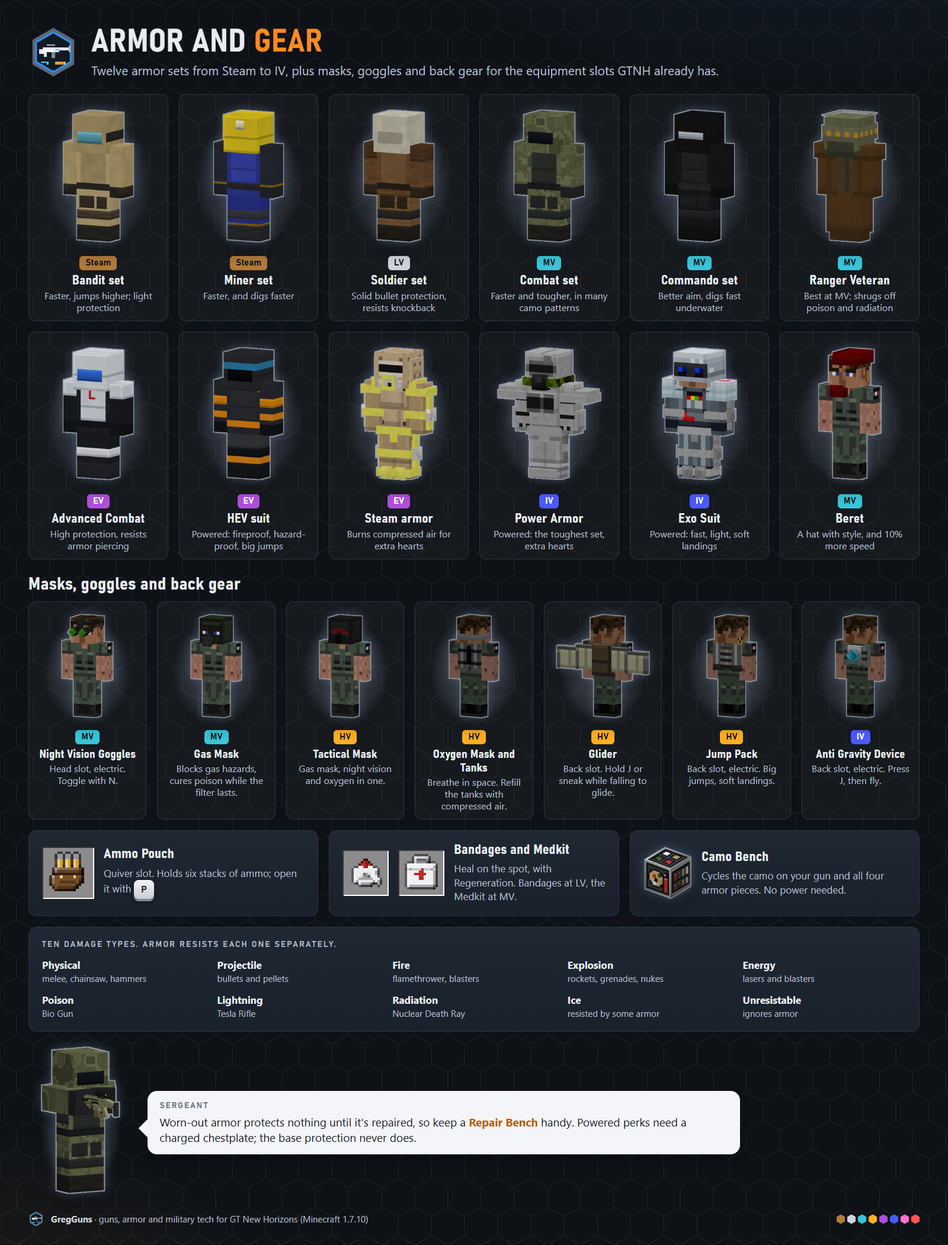
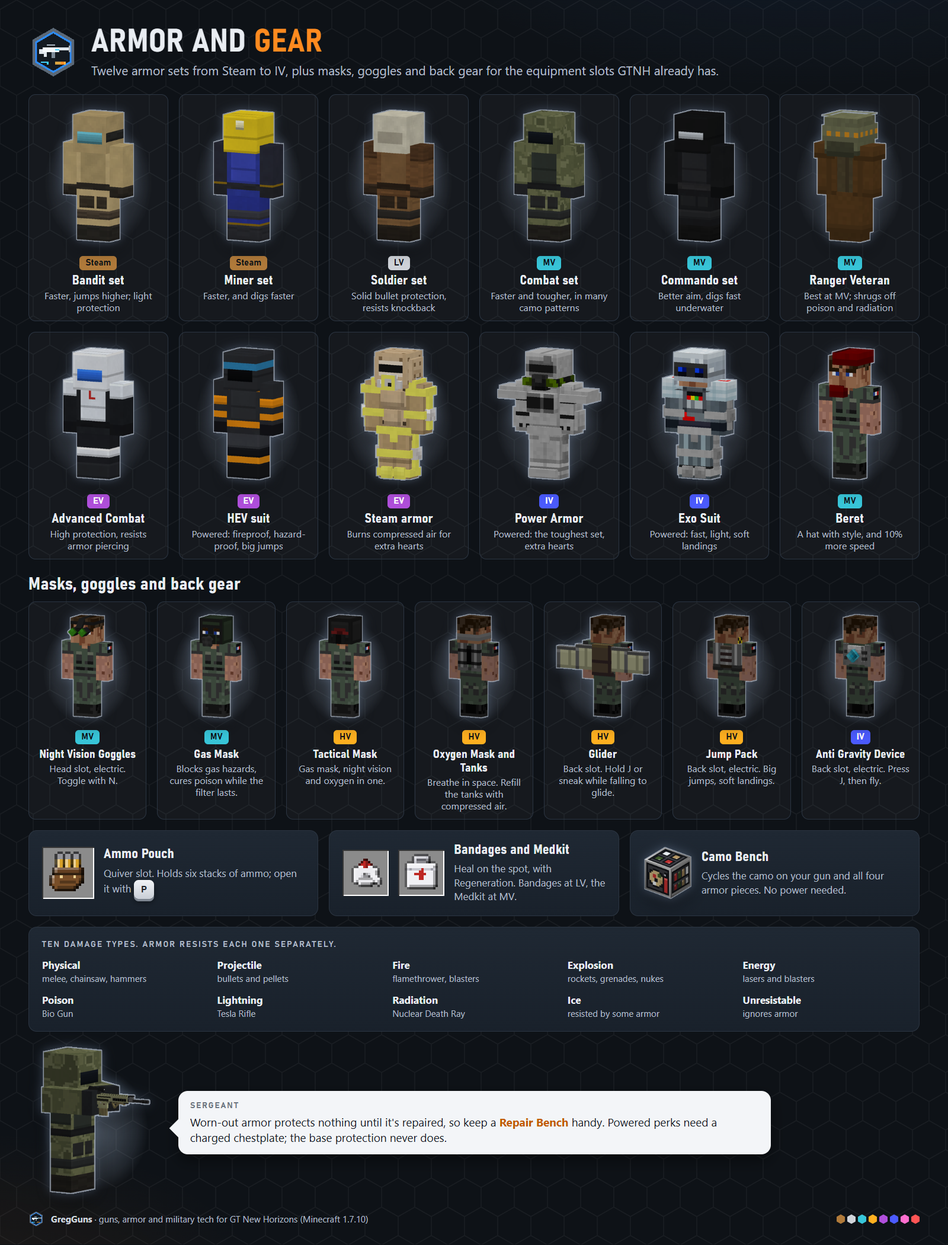
Refresh the infographics for the M5 guns and M7 mobs
- Held guns use the mod's third-person lengths from InHandTargets, point
  muzzle-first (they were mounted backwards), and turn side-on so the
  weapon reads; left-facing gunmen are mirrored so the gun arm shows.
- The turret's gun faced backwards too; fixed, and the turret is now
  viewed from the front.
- The Minigun shows its model; the Nuclear Death Ray runs on a ZPM charge
  (the Nuclear Power Cell is not ammo); newer guns get accurate roles.
- Ammo sheet: an endgame card for the Assembly Line ammo.
- Enemies: add the Skeleton Soldier, drawn with a plain bone skin rather
  than the vanilla texture; the Infiltrator's laser beam no longer
  shrinks it in hand.
- Road ahead gains LuV; render cache keys include each model's hash.
- Manifest sizes synced with the PNGs.

Changed region(s): [[0.0312, 0.8353, 0.7188, 0.9591], [0.7812, 0.8663, 0.8125, 0.9281]]

diff --git a/tools/asset-gen/infographics/pages_more.py b/tools/asset-gen/infographics/pages_more.py
@@ -23,7 +23,7 @@ def tex_swatch(path, px=34):
     return slot(K.icon(path, 64), px)
 
 
-def guide_row(text, pose=None, gun=None, armor=None, flip=False, yaw=30, h=300, speaker="Sergeant"):
+def guide_row(text, pose=None, gun=None, armor=None, flip=False, yaw=55, h=300, speaker="Sergeant"):
     g = figure(pose=pose if pose is not None else K.AIM, gun_name=gun, armor=armor, yaw=yaw, pitch=8, h=h, flip=flip)
     return f"""<div style="display:flex;align-items:flex-end;gap:26px;margin-top:22px"><div class="guide">{img(g, h=int(h * .85))}</div>
 {bubble(speaker, text, side="left", tail=50, style="max-width:1000px;margin-bottom:70px")}</div>"""
@@ -71,13 +71,15 @@ def ammo():
     tiers = "".join(f"""<div style="display:flex;flex-direction:column;gap:8px;align-items:flex-start">{chip(t)}
 <div style="display:flex;flex-wrap:wrap;gap:4px">{''.join(ico(i, 46, n) for i, n in items)}</div>
 <div class="muted" style="font-size:15px;line-height:1.25">{esc(', '.join(n for _, n in items))}</div></div>""" for t, items in D.AMMO_BY_TIER)
-    side = f"""<div class="grid" style="grid-template-columns:repeat(3,minmax(0,1fr));margin-top:18px">
+    side = f"""<div class="grid" style="grid-template-columns:repeat(4,minmax(0,1fr));margin-top:18px">
 <div class="card"><h2>Energy weapons</h2><div style="display:flex;align-items:center;gap:12px;margin:10px 0">{img(K.gun("laser_rifle", w=260, h=110), h=80)}{chip("EV")}</div>
 {muted("No cells to craft: the gun is the battery. Charge it in a GT <b style='color:var(--txt)'>Charger</b> or <b style='color:var(--txt)'>Battery Buffer</b> of exactly the gun's tier. A wrong-tier charger won't touch it.")}</div>
 <div class="card"><h2>Fluid tanks</h2><div style="display:flex;align-items:center;gap:12px;margin:10px 0">{ico("tank_fuel", 58)}{ico("tank_bio", 58)}{ico("tank_air", 58)}</div>
 {muted("Fill <b style='color:var(--txt)'>Fuel</b> (diesel, gasoline, ethanol), <b style='color:var(--txt)'>Bio</b> (biomass) and <b style='color:var(--txt)'>Compressed Air</b> tanks in a GT Fluid Canner. Empties come back to you.")}</div>
 <div class="card"><h2>Loose-round guns</h2><div style="display:flex;align-items:center;gap:10px;margin:10px 0">{img(K.gun("revolver", w=200, h=100), h=70)}{img(K.gun("combat_shotgun", w=260, h=100), h=64)}</div>
-{muted("Revolvers, shotguns, the Bolt Action Rifle and the launchers take rounds straight from your inventory. No magazines needed.")}</div></div>"""
+{muted("Revolvers, shotguns, the Bolt Action Rifle and the launchers take rounds straight from your inventory. No magazines needed.")}</div>
+<div class="card"><h2>Endgame ammo</h2><div style="display:flex;align-items:center;gap:12px;margin:10px 0">{ico("ammo_nether_charge", 58)}{chip("LuV")}{ico("ammo_rocket_nuke", 58)}{chip("ZPM")}</div>
+{muted("Nether Charges and Tactical Nuke Rockets are too big for the press. Build them on the GT <b style='color:var(--txt)'>Assembly Line</b>.")}</div></div>"""
     body = f"""{flow}
 <h2 style="margin:26px 0 12px">Magazines</h2>
 <div class="grid" style="grid-template-columns:repeat(7,minmax(0,1fr))">{mags}</div>
@@ -328,6 +330,9 @@ MOBS = [
     ("Low", [
         ("Zombie Soldier", "Armored zombie with a revolver or Thompson. Its Farmer and Miner cousins carry tools or a Hand Cannon.",
          dict(model="biped", skin="zombie_soldier", pose={"rightArm": (-90, 0, 0), "leftArm": (-90, 0, 0)})),
+        ("Skeleton Soldier", "A skeleton in a scout or combat helmet, with a revolver, Thompson or Hand Cannon.",
+         dict(model="skeleton_soldier", skin=str(K.bone_skin()), pose=K.AIM, gun_name="thompson_smg",
+              armor=("vanilla", ARMOR / "t1_scout_1.png", ARMOR / "t1_scout_2.png", ("helmet", "boots")))),
         ("Bandit", "Quick gunman with pistols, rifles and shotguns. Roams the overworld.",
          dict(model="biped", skin="bandit", pose=K.AIM, gun_name="sawed_off"))]),
     ("Medium", [
@@ -362,7 +367,9 @@ def enemies():
         cards = ""
         for n, d, kw in mobs:
             kw = dict(kw)
-            p = K.mob(kw.pop("model"), kw.pop("skin"), yaw=kw.pop("yaw", -30), pitch=kw.pop("pitch", 8), h=320, **kw)
+            # A gun is held in the right hand, so a gunman is turned to show that side and mirrored to face left.
+            armed = bool(kw.get("gun_name"))
+            p = K.mob(kw.pop("model"), kw.pop("skin"), yaw=kw.pop("yaw", 50 if armed else -30), flip=armed, pitch=kw.pop("pitch", 8), h=320, **kw)
             cards += f"""<div class="wcard" style="align-items:center;text-align:center">
 <div class="spot" style="height:230px;width:100%;display:flex;align-items:flex-end;justify-content:center;padding-bottom:6px">{img(p, h=210, style="max-width:100%")}</div>
 <h3 style="margin-top:8px">{esc(n)}</h3><div class="role">{esc(d)}</div></div>"""
@@ -396,7 +403,7 @@ CHAPTERS = [
     ("Extreme Voltage", "EV", "laser_rifle", "Charging at the right tier, lasers, Pulse Rifle, Minigun, T3 and Steam armor."),
     ("Insane Voltage", "IV", "blaster_rifle", "Blasters, the De-Atomizer, Power Armor, the Exo Suit, anti-gravity flight."),
     ("Ludicrous Voltage", "LuV", "nether_blaster", "Nether Charges, the Nether and Alien Blasters, the Grim Reaper."),
-    ("Zero Point Module", "ZPM", "nuclear_death_ray", "Nuclear Power Cells, the Nuclear Death Ray and the Nuke Launcher."),
+    ("Zero Point Module", "ZPM", "nuclear_death_ray", "Tactical Nuke Rockets, the Nuclear Death Ray and the Nuke Launcher."),
 ]
 BRANCHES = [
     ("NPCs and bosses", "Hunt each faction, Psycho Steve and the helicopter. A few quests are secret.", ("mob", "cyberdemon")),
@@ -441,15 +448,15 @@ def questbook():
 def hero():
     logo = url(K.REPO / "docs/assets/branding/logo_pixel_256.png")
     lineup = [
-        figure(pose=K.AIM, gun_name="handcannon", yaw=40, pitch=6, h=300, armor=vset("t1_scout")),
-        figure(pose=K.AIM, gun_name="m4", yaw=35, pitch=6, h=300, armor=vset("t2_combat")),
-        figure(pose=K.AIM, gun_name="laser_rifle", yaw=30, pitch=6, h=300, armor=vset("t3_hev")),
-        figure(pose=K.AIM, gun_name="nuclear_death_ray", yaw=25, pitch=6, h=300, armor=("custom", "t3_power")),
+        figure(pose=K.AIM, gun_name="handcannon", yaw=60, pitch=6, h=300, armor=vset("t1_scout")),
+        figure(pose=K.AIM, gun_name="m4", yaw=60, pitch=6, h=300, armor=vset("t2_combat")),
+        figure(pose=K.AIM, gun_name="laser_rifle", yaw=60, pitch=6, h=300, armor=vset("t3_hev")),
+        figure(pose=K.AIM, gun_name="nuclear_death_ray", yaw=60, pitch=6, h=300, armor=("custom", "t3_power")),
     ]
     figs = "".join(f'<img class="r" src="{url(p)}" style="height:{196 + i * 16}px;margin-left:-18px">'
                    for i, p in enumerate(lineup))
     boom = K.fx_frame("explosion", 3, 1, 5, 420, black_to_alpha=True)
-    mutant = K.mob("super_mutant", "super_mutant_1", pose=K.AIM, gun_name="lmg", yaw=-45, pitch=6, h=300)
+    mutant = K.mob("super_mutant", "super_mutant_1", pose=K.AIM, gun_name="lmg", yaw=-60, pitch=6, h=300)
     body = f"""<div style="position:relative;height:430px">
 <div style="position:absolute;left:-20px;bottom:-30px;width:640px;height:330px;background:radial-gradient(ellipse 50% 50% at 50% 60%,rgba(185,205,230,.26),transparent 75%)"></div>
 <div style="position:absolute;right:-20px;bottom:-30px;width:300px;height:330px;background:radial-gradient(ellipse 50% 50% at 50% 60%,rgba(185,205,230,.22),transparent 75%)"></div>

diff --git a/tools/asset-gen/infographics/kit.py b/tools/asset-gen/infographics/kit.py
@@ -11,6 +11,7 @@ import hashlib
 import html
 import json
 import os
+import re
 from pathlib import Path
 
 import numpy as np
@@ -66,8 +67,17 @@ RIM = (214, 224, 238, 150, 2)
 AIM = {"rightArm": (-90, -5.73, 0), "leftArm": (-90, 28.65, 0)}
 HOLD = {"rightArm": (-28, 0, 0), "leftArm": (-50, 40, 0)}
 
-# How long each gun looks in a mob's hands, in blocks (the exported models are not to a common scale).
-HELD_LENGTH = {
+def _third_person_lengths() -> dict:
+    """Each gun's third-person length in world blocks, read from the mod's in-hand sizing table."""
+    src = REPO / "src/main/java/com/gregguns/client/render/profile/InHandTargets.java"
+    num = r"\s*(-?[\d.]+)"
+    rows = re.findall(r'put\("(\w+)",' + ",".join([num] * 8) + r"\)", src.read_text(encoding="utf-8"))
+    return {r[0]: float(r[8]) for r in rows}
+
+
+# How long each gun looks in a mob's hands, in blocks: the mod's own third-person sizes, with a fallback for any gun
+# not on its table (the exported models are not to a common scale).
+HELD_LENGTH_FALLBACK = {
     "pistol_9mm": 0.55, "revolver": 0.6, "golden_revolver": 0.6, "deatomizer_pistol": 0.6, "mac10": 0.6,
     "handcannon": 0.9, "sawed_off": 0.8, "thompson_smg": 1.05, "pdw": 0.8, "vector": 0.85, "alien_blaster": 0.75,
     "nether_blaster": 0.9, "power_hammer": 1.0, "chainsaw": 1.2, "combat_shotgun": 1.15, "bolt_action_rifle": 1.35,
@@ -76,14 +86,23 @@ HELD_LENGTH = {
     "pulse_rifle": 1.3, "blaster_rifle": 1.25, "tesla_rifle": 1.3, "sonic_rifle": 1.3, "scatter_laser_rifle": 1.35,
     "bio_gun": 1.0, "grim_reaper": 1.3, "nuclear_death_ray": 1.35,
 }
+HELD_LENGTH = {**HELD_LENGTH_FALLBACK, **_third_person_lengths()}
+
+
+def export_sig(name: str) -> str:
+    """A short hash of an exported model, so renders are redone whenever the model changes."""
+    return hashlib.sha1((export_dir() / f"{name}.json").read_bytes()).hexdigest()[:10]
 
 
 def _held(mats, gun: str, length: float | None = None, grip=(0.3, 0.45)):
+    """The gun in the right hand. grip: where the hand holds it, as fractions of its length from the rear and of its
+    height from the bottom. The world flip in gun_scene puts the muzzle at -X, so -X runs along the arm."""
     g = R.gun_scene(export_dir() / f"{gun}.json")
-    mn, mx = g.bounds()
+    # Measure without a laser sight's beam, which the mod's length table leaves out too.
+    mn, mx = R.gun_scene(export_dir() / f"{gun}.json", skip=("beam",)).bounds()
     L = mx[0] - mn[0]
     k = (length or HELD_LENGTH.get(gun, 1.2)) / L
-    gp = np.array([mn[0] + grip[0] * L, mn[1] + grip[1] * (mx[1] - mn[1]), (mn[2] + mx[2]) / 2])
+    gp = np.array([mx[0] - grip[0] * L, mn[1] + grip[1] * (mx[1] - mn[1]), (mn[2] + mx[2]) / 2])
     M = mats["rightArm"]
     Rm = M[:3, :3]
     hand = (M @ np.array([-1, 10, 0, 1.0]))[:3]
@@ -92,7 +111,7 @@ def _held(mats, gun: str, length: float | None = None, grip=(0.3, 0.45)):
     uy = Rm @ np.array([0, 0, -1.0])
     uy /= np.linalg.norm(uy)
     Bm = np.eye(4)
-    Bm[:3, 0], Bm[:3, 1], Bm[:3, 2] = bx, uy, np.cross(bx, uy)
+    Bm[:3, 0], Bm[:3, 1], Bm[:3, 2] = -bx, uy, np.cross(-bx, uy)
     return g, R.tr(*hand) @ Bm @ R.sc(k) @ R.tr(*(-gp))
 
 
@@ -100,18 +119,18 @@ def gun(name: str, yaw=18, pitch=16, w=420, h=200, outline=RIM) -> Path:
     def make():
         s = R.gun_scene(export_dir() / f"{name}.json")
         return R.trim(R.render(s, yaw=yaw, pitch=pitch, fit=(w * 2, h * 2), ss=2, outline=outline), 2)
-    return _cached(f"gun-{name}", dict(n=name, y=yaw, p=pitch, w=w, h=h, o=outline, v=4), make)
+    return _cached(f"gun-{name}", dict(n=name, y=yaw, p=pitch, w=w, h=h, o=outline, m=export_sig(name), v=4), make)
 
 
 def mob(model: str, skin: str, pose=None, gun_name=None, yaw=-30, pitch=10, h=420, armor=None, accessories=(),
         flip=False) -> Path:
-    """A mob or armored figure. armor: ("vanilla", layer1, layer2) or ("custom", set_id[, texture])."""
+    """A mob or armored figure. armor: ("vanilla", layer1, layer2[, pieces]) or ("custom", set_id[, texture])."""
     def make():
         s, mats = R.mob_scene(model, ENTITY / f"{skin}.png" if not str(skin).endswith(".png") else Path(skin),
                               pose or {})
         if armor:
             if armor[0] == "vanilla":
-                R.vanilla_armor(s, mats, armor[1], armor[2])
+                R.vanilla_armor(s, mats, armor[1], armor[2], *armor[3:])
             else:
                 R.custom_armor(s, mats, armor[1], armor[2] if len(armor) > 2 else None)
         for acc in accessories:
@@ -123,7 +142,24 @@ def mob(model: str, skin: str, pose=None, gun_name=None, yaw=-30, pitch=10, h=42
         return im.transpose(Image.FLIP_LEFT_RIGHT) if flip else im
     return _cached(f"mob-{model}-{Path(str(skin)).stem}",
                    dict(m=model, s=str(skin), p=pose, g=gun_name, y=yaw, pi=pitch, h=h, a=str(armor),
-                        acc=list(accessories), f=flip, v=5), make)
+                        acc=list(accessories), f=flip, gm=export_sig(gun_name) if gun_name else None,
+                        gl=HELD_LENGTH.get(gun_name), v=8), make)
+
+
+def bone_skin() -> Path:
+    """A plain bone skin for the Skeleton Soldier, which wears the vanilla skeleton texture in game. We don't render
+    Mojang's art, so this is a flat bone color with simple eye sockets on the 64x32 biped layout."""
+    p = TEXCACHE / "skeleton_bone.png"
+    if not p.exists():
+        TEXCACHE.mkdir(parents=True, exist_ok=True)
+        rng = np.random.default_rng(7)
+        a = np.empty((32, 64, 4), np.uint8)
+        a[..., :3] = np.array([214, 208, 192]) + rng.integers(-10, 10, (32, 64, 1))
+        a[..., 3] = 255
+        a[12:14, 9:11, :3] = a[12:14, 13:15, :3] = (40, 36, 34)  # eye sockets on the face (u 8..16, v 8..16)
+        a[14:15, 11:13, :3] = (90, 84, 76)
+        Image.fromarray(a, "RGBA").save(p)
+    return p
 
 
 def accessory(scene, mats, name: str):

diff --git a/tools/asset-gen/infographics/data.py b/tools/asset-gen/infographics/data.py
@@ -47,18 +47,18 @@ WEAPONS = {
         ("power_hammer", "Power Hammer", "Air-powered smash", "tank_air", "Compressed Air Tank"),
     ],
     "EV": [
-        ("laser_rifle", "Laser Rifle", "Fast energy beam", None, "EV charge"),
+        ("laser_rifle", "Laser Rifle", "Instant beam, four shots a second", None, "EV charge"),
         ("pdw", "PDW", "Armor-piercing bursts", "mag_advanced", "Advanced Magazine"),
         ("pulse_rifle", "Pulse Rifle", "Long-range three-round bursts", "mag_advanced", "Advanced Magazine"),
-        ("item:minigun", "Minigun", "200 rounds of sustained fire", "mag_minigun_drum", "Minigun Ammo Drum"),
-        ("tesla_rifle", "Tesla Rifle", "Lightning chains between targets", None, "EV charge"),
-        ("sonic_rifle", "Sonic Rifle", "Knockback shockwave", None, "EV charge"),
+        ("minigun", "Minigun", "200 rounds, 20 shots a second", "mag_minigun_drum", "Minigun Ammo Drum"),
+        ("tesla_rifle", "Tesla Rifle", "Lightning jumps to three more targets", None, "EV charge"),
+        ("sonic_rifle", "Sonic Rifle", "Ring-shaped shockwave volley", None, "EV charge"),
         ("bio_gun", "Bio Gun", "Poison blobs, charge to grow", "tank_bio", "Bio Tank"),
-        ("power_hammer:power_hammer_adv", "Power Hammer (Advanced)", "Harder, faster smash", "tank_air",
+        ("power_hammer_adv", "Power Hammer (Advanced)", "Harder, faster smash", "tank_air",
          "Compressed Air Tank"),
     ],
     "IV": [
-        ("blaster_rifle", "Blaster Rifle", "Heavy energy rifle", None, "IV charge"),
+        ("blaster_rifle", "Blaster Rifle", "Scoped energy rifle", None, "IV charge"),
         ("deatomizer_pistol", "De-Atomizer Pistol", "Armor-piercing energy sidearm", None, "IV charge"),
         ("akimbo:deatomizer_pistol", "Akimbo De-Atomizers", "Two of them, twice the charge", None, "IV charge"),
         ("scatter_laser_rifle", "Scatter Laser Rifle", "Five-beam spread", None, "IV charge"),
@@ -66,13 +66,13 @@ WEAPONS = {
         ("akimbo:golden_revolver", "Akimbo Golden Revolvers", "A matched pair", "ammo_9mm_bullet", "9mm Bullets"),
     ],
     "LuV": [
-        ("nether_blaster", "Nether Blaster", "Pump-action fire bolts", "ammo_nether_charge", "Nether Charge"),
-        ("alien_blaster", "Alien Blaster", "Self-powered fire blasts", None, "LuV charge"),
+        ("nether_blaster", "Nether Blaster", "Slow bolts that set targets alight", "ammo_nether_charge", "Nether Charge"),
+        ("alien_blaster", "Alien Blaster", "Full-auto energy pistol", None, "LuV charge"),
         ("grim_reaper", "Grim Reaper", "Four rockets per load", "ammo_rocket", "Rockets"),
     ],
     "ZPM": [
-        ("nuclear_death_ray", "Nuclear Death Ray", "Radiation beam that ignores armor", "cell_nuclear",
-         "Nuclear Power Cell"),
+        ("nuclear_death_ray", "Nuclear Death Ray", "Held radiation beam, 48 blocks", None,
+         "ZPM charge"),
         ("nuke_launcher", "Nuke Launcher", "One tactical nuke", "ammo_rocket_nuke", "Tactical Nuke Rocket"),
     ],
 }
@@ -88,7 +88,7 @@ AMMO_BY_TIER = [
     ("EV", [("ammo_advanced_bullet", "Advanced Bullets"), ("mag_advanced", "Advanced Magazine"),
             ("mag_minigun_drum", "Minigun Ammo Drum"), ("tank_bio", "Bio Tank")]),
     ("LuV", [("ammo_nether_charge", "Nether Charge")]),
-    ("ZPM", [("ammo_rocket_nuke", "Tactical Nuke Rocket"), ("cell_nuclear", "Nuclear Power Cell")]),
+    ("ZPM", [("ammo_rocket_nuke", "Tactical Nuke Rocket")]),
 ]
 
 MAGAZINES = [

diff --git a/tools/asset-gen/infographics/pages.py b/tools/asset-gen/infographics/pages.py
@@ -123,17 +123,17 @@ def arsenal(part: int):
     if part == 1:
         title = "The <b>arsenal</b> &middot; Steam to HV"
         sub = "Ballistic weapons. Each one is built from GregTech parts and needs its tier's gate material, so a gun arrives exactly when you can make it."
-        guide = K.mob("biped", "army_soldier", pose=K.AIM, gun_name="m4", yaw=30, pitch=8, h=330)
+        guide = K.mob("biped", "army_soldier", pose=K.AIM, gun_name="m4", yaw=60, pitch=8, h=330)
         tip = ("Hold <b>Shift</b> over any gun to see its damage type, range, spread, magazine size and armor "
                "penetration. Guns can't go in the offhand, and they don't take enchantments.")
     else:
         title = "The <b>arsenal</b> &middot; EV to ZPM"
         sub = "Energy weapons, heavy ordnance and the endgame. Energy guns are their own batteries: charge them in a GT Charger or Battery Buffer of exactly their tier."
-        guide = K.mob("biped", "army_soldier", pose=K.AIM, gun_name="laser_rifle", yaw=30, pitch=8, h=330,
+        guide = K.mob("biped", "army_soldier", pose=K.AIM, gun_name="laser_rifle", yaw=60, pitch=8, h=330,
                       armor=("vanilla", K.ASSETS / "textures/models/armor/t3_hev_1.png",
                              K.ASSETS / "textures/models/armor/t3_hev_2.png"))
         tip = ("An EV gun charges only in an <b>EV</b> charger or buffer. Plan your power before you plan your "
-               "loadout. The Nuclear Death Ray doesn't use EU: it burns Nuclear Power Cells.")
+               "loadout. Fuel, Bio and Air tank guns refill in a GT Fluid Canner instead.")
     body = f"""
 <div style="display:flex;flex-direction:column;gap:18px">{bands}</div>
 <div style="display:flex;align-items:flex-end;gap:26px;margin-top:22px">
@@ -162,7 +162,8 @@ def getting_started():
     journey = "".join(
         f'<div class="stack spot" style="flex:1;min-width:0;padding:6px 2px">{img(K.gun(g, w=250, h=100), h=70, style="max-width:100%")}{chip(t)}</div>'
         for g, t in (("handcannon", "Steam"), ("pistol_9mm", "LV"), ("m4", "MV"), ("as50", "HV"),
-                     ("laser_rifle", "EV"), ("blaster_rifle", "IV"), ("nuclear_death_ray", "ZPM")))
+                     ("laser_rifle", "EV"), ("blaster_rifle", "IV"), ("nether_blaster", "LuV"),
+                     ("nuclear_death_ray", "ZPM")))
     arrow = '<span class="arrow">&rarr;</span>'
     s1 = step(1, "Steam age: the Hand Cannon",
               f'{img(K.gun("handcannon", w=300, h=110), h=96)}<span class="plus">+</span>'

diff --git a/tools/asset-gen/infographics/scenes.py b/tools/asset-gen/infographics/scenes.py
@@ -69,17 +69,17 @@ def turret_scene(plate="steel", gun=None, pitch_deg=0.0) -> R.Scene:
         k = K.HELD_LENGTH.get(gun, 1.2) * 0.9 / L
         c = (mn + mx) / 2
         pivot = (mount @ np.array([0, 0, 0, 1.0]))[:3]
-        # barrel along the turret's facing (-Z), sitting on the mount plate
+        # muzzle (the gun's -X) along the turret's facing (-Z), sitting on the mount plate
         Bm = np.eye(4)
-        Bm[:3, 0], Bm[:3, 1], Bm[:3, 2] = (0, 0, -1), (0, 1, 0), (1, 0, 0)
+        Bm[:3, 0], Bm[:3, 1], Bm[:3, 2] = (0, 0, 1), (0, 1, 0), (-1, 0, 0)
         s.extend(g, R.tr(pivot[0], pivot[1] + 0.12, pivot[2] - 0.1) @ Bm @ R.sc(k) @ R.tr(-c[0], -mn[1], -c[2]))
     return s
 
 
-def turret(plate="steel", gun="m4", yaw=-140, pitch=20, h=320):
+def turret(plate="steel", gun="m4", yaw=-40, pitch=20, h=320):
     def make():
         return R.trim(R.render(turret_scene(plate, gun), yaw=yaw, pitch=pitch, ppu=h / 1.9, ss=2, outline=K.RIM), 3)
-    return K._cached("turret", dict(p=plate, g=gun, y=yaw, pi=pitch, h=h, v=3), make)
+    return K._cached("turret", dict(p=plate, g=gun, y=yaw, pi=pitch, h=h, gm=K.export_sig(gun), gl=K.HELD_LENGTH.get(gun), v=4), make)
 
 
 # ---------------------------------------------------------------- multiblocks

diff --git a/tools/asset-gen/infographics/render3d.py b/tools/asset-gen/infographics/render3d.py
@@ -142,8 +142,8 @@ def box_quads(M, off, size, uv0, tw, th, mirror, inflate, tex, uscale=1.0, vscal
 # ---------------------------------------------------------------- loaders
 
 
-def gun_scene(export_json: Path, texture: Path | None = None) -> Scene:
-    """A gun from ModelExporter JSON; the barrel ends up along world -Z... callers orient with gun_frame()."""
+def gun_scene(export_json: Path, texture: Path | None = None, skip=()) -> Scene:
+    """A gun from ModelExporter JSON, muzzle toward world -X. skip: box name prefixes to leave out."""
     m = json.loads(Path(export_json).read_text())
     sc_ = Scene()
     if texture is None:
@@ -151,6 +151,8 @@ def gun_scene(export_json: Path, texture: Path | None = None) -> Scene:
     t = sc_.texture(texture)
     tw, th = m["textureWidth"], m["textureHeight"]
     for b in m["boxes"]:
+        if skip and str(b.get("name", "")).startswith(tuple(skip)):
+            continue
         M = MODEL_TO_WORLD @ tr(*b["rotationPoint"]) @ rot_zyx(b["rotate"])
         sc_.quads += box_quads(M, b["offset"], b["size"], b["uv"], tw, th, b["mirror"], b.get("inflate", 0.0), t)
     return sc_

diff --git a/docs/assets/MANIFEST.md b/docs/assets/MANIFEST.md
@@ -945,18 +945,18 @@ The machine-readable twin is [tools/asset-gen/manifest.json](../../tools/asset-g
 | ID | Target path | Size / frames / audio | Brief | Palette | Techguns footprint | Pri |
 |---|---|---|---|---|---|---|
 | `info.hero` | `docs/assets/infographics/hero.png` | 1600x460 | README hero banner: armored players across the tiers facing a Super Mutant. Built by tools/asset-gen/infographics/build.py; no vector source. [Delivered: generated by tools/asset-gen/infographics/build.py.] | #808080 #FF8000 #101418 #F2F2F2 | (new) | P2 |
-| `info.getting_started` | `docs/assets/infographics/getting-started.png` | 1600x1590 | Player guide: the first six steps, from the Hand Cannon to a magazine-fed pistol, plus default keys. Built by tools/asset-gen/infographics/build.py; no vector source. [Delivered: generated by tools/asset-gen/infographics/build.py.] | #808080 #FF8000 #101418 #F2F2F2 | (new) | P2 |
-| `info.arsenal_steam_to_hv` | `docs/assets/infographics/arsenal-steam-to-hv.png` | 1600x3010 | Player guide: every weapon from Steam to HV, rendered, with role and ammo. Built by tools/asset-gen/infographics/build.py; no vector source. [Delivered: generated by tools/asset-gen/infographics/build.py.] | #808080 #FF8000 #101418 #F2F2F2 | (new) | P2 |
-| `info.arsenal_ev_to_zpm` | `docs/assets/infographics/arsenal-ev-to-zpm.png` | 1600x2256 | Player guide: every weapon from EV to ZPM, rendered, with role and ammo or charge. Built by tools/asset-gen/infographics/build.py; no vector source. [Delivered: generated by tools/asset-gen/infographics/build.py.] | #808080 #FF8000 #101418 #F2F2F2 | (new) | P2 |
-| `info.ammo_and_magazines` | `docs/assets/infographics/ammo-and-magazines.png` | 1600x1744 | Player guide: GT materials to parts to the Ammo Press to magazines; magazine sizes; ammo per tier. Built by tools/asset-gen/infographics/build.py; no vector source. [Delivered: generated by tools/asset-gen/infographics/build.py.] | #808080 #FF8000 #101418 #F2F2F2 | (new) | P2 |
-| `info.armor_and_gear` | `docs/assets/infographics/armor-and-gear.png` | 1600x2085 | Player guide: the twelve armor sets on figures, masks and back gear, damage types. Built by tools/asset-gen/infographics/build.py; no vector source. [Delivered: generated by tools/asset-gen/infographics/build.py.] | #808080 #FF8000 #101418 #F2F2F2 | (new) | P2 |
-| `info.machines` | `docs/assets/infographics/machines.png` | 1600x1657 | Player guide: each single block machine beside its multiblock, rendered. Built by tools/asset-gen/infographics/build.py; no vector source. [Delivered: generated by tools/asset-gen/infographics/build.py.] | #808080 #FF8000 #101418 #F2F2F2 | (new) | P2 |
-| `info.multiblock_ammunition_works` | `docs/assets/infographics/multiblock-ammunition-works.png` | 1600x1957 | Build guide: Ammunition Works, with block counts, sections, hatches and scaling. Built by tools/asset-gen/infographics/build.py; no vector source. [Delivered: generated by tools/asset-gen/infographics/build.py.] | #808080 #FF8000 #101418 #F2F2F2 | (new) | P3 |
-| `info.multiblock_retort` | `docs/assets/infographics/multiblock-retort.png` | 1600x1902 | Build guide: Retort, with block counts, sections, hatches and scaling. Built by tools/asset-gen/infographics/build.py; no vector source. [Delivered: generated by tools/asset-gen/infographics/build.py.] | #808080 #FF8000 #101418 #F2F2F2 | (new) | P3 |
-| `info.multiblock_armory_gantry` | `docs/assets/infographics/multiblock-armory-gantry.png` | 1600x1976 | Build guide: Armory Gantry, with block counts, sections, hatches and scaling. Built by tools/asset-gen/infographics/build.py; no vector source. [Delivered: generated by tools/asset-gen/infographics/build.py.] | #808080 #FF8000 #101418 #F2F2F2 | (new) | P3 |
+| `info.getting_started` | `docs/assets/infographics/getting-started.png` | 1600x1602 | Player guide: the first six steps, from the Hand Cannon to a magazine-fed pistol, plus default keys. Built by tools/asset-gen/infographics/build.py; no vector source. [Delivered: generated by tools/asset-gen/infographics/build.py.] | #808080 #FF8000 #101418 #F2F2F2 | (new) | P2 |
+| `info.arsenal_steam_to_hv` | `docs/assets/infographics/arsenal-steam-to-hv.png` | 1600x3052 | Player guide: every weapon from Steam to HV, rendered, with role and ammo. Built by tools/asset-gen/infographics/build.py; no vector source. [Delivered: generated by tools/asset-gen/infographics/build.py.] | #808080 #FF8000 #101418 #F2F2F2 | (new) | P2 |
+| `info.arsenal_ev_to_zpm` | `docs/assets/infographics/arsenal-ev-to-zpm.png` | 1600x2294 | Player guide: every weapon from EV to ZPM, rendered, with role and ammo or charge. Built by tools/asset-gen/infographics/build.py; no vector source. [Delivered: generated by tools/asset-gen/infographics/build.py.] | #808080 #FF8000 #101418 #F2F2F2 | (new) | P2 |
+| `info.ammo_and_magazines` | `docs/assets/infographics/ammo-and-magazines.png` | 1600x1851 | Player guide: GT materials to parts to the Ammo Press to magazines; magazine sizes; ammo per tier. Built by tools/asset-gen/infographics/build.py; no vector source. [Delivered: generated by tools/asset-gen/infographics/build.py.] | #808080 #FF8000 #101418 #F2F2F2 | (new) | P2 |
+| `info.armor_and_gear` | `docs/assets/infographics/armor-and-gear.png` | 1600x2101 | Player guide: the twelve armor sets on figures, masks and back gear, damage types. Built by tools/asset-gen/infographics/build.py; no vector source. [Delivered: generated by tools/asset-gen/infographics/build.py.] | #808080 #FF8000 #101418 #F2F2F2 | (new) | P2 |
+| `info.machines` | `docs/assets/infographics/machines.png` | 1600x1721 | Player guide: each single block machine beside its multiblock, rendered. Built by tools/asset-gen/infographics/build.py; no vector source. [Delivered: generated by tools/asset-gen/infographics/build.py.] | #808080 #FF8000 #101418 #F2F2F2 | (new) | P2 |
+| `info.multiblock_ammunition_works` | `docs/assets/infographics/multiblock-ammunition-works.png` | 1600x1964 | Build guide: Ammunition Works, with block counts, sections, hatches and scaling. Built by tools/asset-gen/infographics/build.py; no vector source. [Delivered: generated by tools/asset-gen/infographics/build.py.] | #808080 #FF8000 #101418 #F2F2F2 | (new) | P3 |
+| `info.multiblock_retort` | `docs/assets/infographics/multiblock-retort.png` | 1600x1909 | Build guide: Retort, with block counts, sections, hatches and scaling. Built by tools/asset-gen/infographics/build.py; no vector source. [Delivered: generated by tools/asset-gen/infographics/build.py.] | #808080 #FF8000 #101418 #F2F2F2 | (new) | P3 |
+| `info.multiblock_armory_gantry` | `docs/assets/infographics/multiblock-armory-gantry.png` | 1600x1986 | Build guide: Armory Gantry, with block counts, sections, hatches and scaling. Built by tools/asset-gen/infographics/build.py; no vector source. [Delivered: generated by tools/asset-gen/infographics/build.py.] | #808080 #FF8000 #101418 #F2F2F2 | (new) | P3 |
 | `info.multiblock_rampart` | `docs/assets/infographics/multiblock-rampart.png` | 1600x1841 | Build guide: Rampart, with block counts, sections, hatches and scaling. Built by tools/asset-gen/infographics/build.py; no vector source. [Delivered: generated by tools/asset-gen/infographics/build.py.] | #808080 #FF8000 #101418 #F2F2F2 | (new) | P3 |
 | `info.enemies` | `docs/assets/infographics/enemies.png` | 1600x2700 | Player guide: mobs by danger, rendered, plus structures and loot. Built by tools/asset-gen/infographics/build.py; no vector source. [Delivered: generated by tools/asset-gen/infographics/build.py.] | #808080 #FF8000 #101418 #F2F2F2 | (new) | P2 |
-| `info.questbook` | `docs/assets/infographics/questbook.png` | 1600x1417 | Player guide: the GregGuns questbook chapters, side branches and rewards. Built by tools/asset-gen/infographics/build.py; no vector source. [Delivered: generated by tools/asset-gen/infographics/build.py.] | #808080 #FF8000 #101418 #F2F2F2 | (new) | P2 |
+| `info.questbook` | `docs/assets/infographics/questbook.png` | 1600x1525 | Player guide: the GregGuns questbook chapters, side branches and rewards. Built by tools/asset-gen/infographics/build.py; no vector source. [Delivered: generated by tools/asset-gen/infographics/build.py.] | #808080 #FF8000 #101418 #F2F2F2 | (new) | P2 |
 
 ## 10. Excluded on purpose
 

diff --git a/tools/asset-gen/infographics/README.md b/tools/asset-gen/infographics/README.md
@@ -16,7 +16,7 @@ Give the export directory as a Windows path (`C:/...`). Java reads `/c/...` as `
 
 Needs Pillow, numpy and Playwright (it drives the Edge that ships with Windows). GregTech textures come from the GT jar in the extracted reference pack (`reference/gtnh/`, or the main checkout's copy when you're in a worktree). If it's missing, run `python -I tools/gtnh-reference/gtnh_ref.py fetch`.
 
-Renders are cached in `build/infographics/r/` by their parameters. Delete that folder after you change a texture.
+Renders are cached in `build/infographics/r/` by their parameters and a hash of each exported model, so a model change redraws on its own. Delete that folder after you change a texture.
 
 ## Files
 
@@ -36,4 +36,6 @@ Renders are cached in `build/infographics/r/` by their parameters. Delete that f
 - Describe the mod as finished.
 - Use in-game display names and American spelling.
 - Give every dark model a spotlight (`.spot`, `.wcard .pic`). Every render (`img.r`) gets a light rim so it stands off the dark cards.
+- Guns in a figure's hands use the mod's own third-person lengths, read from `InHandTargets.java`, with the muzzle forward. Turn a gunman side-on so the gun shows; a left-facing one is rendered facing right and mirrored.
+- Render only our own textures and GregTech's. The Skeleton Soldier wears the vanilla skeleton texture in game, so it is drawn with a plain bone skin (`kit.bone_skin()`).
 - License: our art is MIT. The GregTech textures shown are GT5 Unofficial's (LGPL-3.0), credited in `docs/assets/CREDITS.md`.
